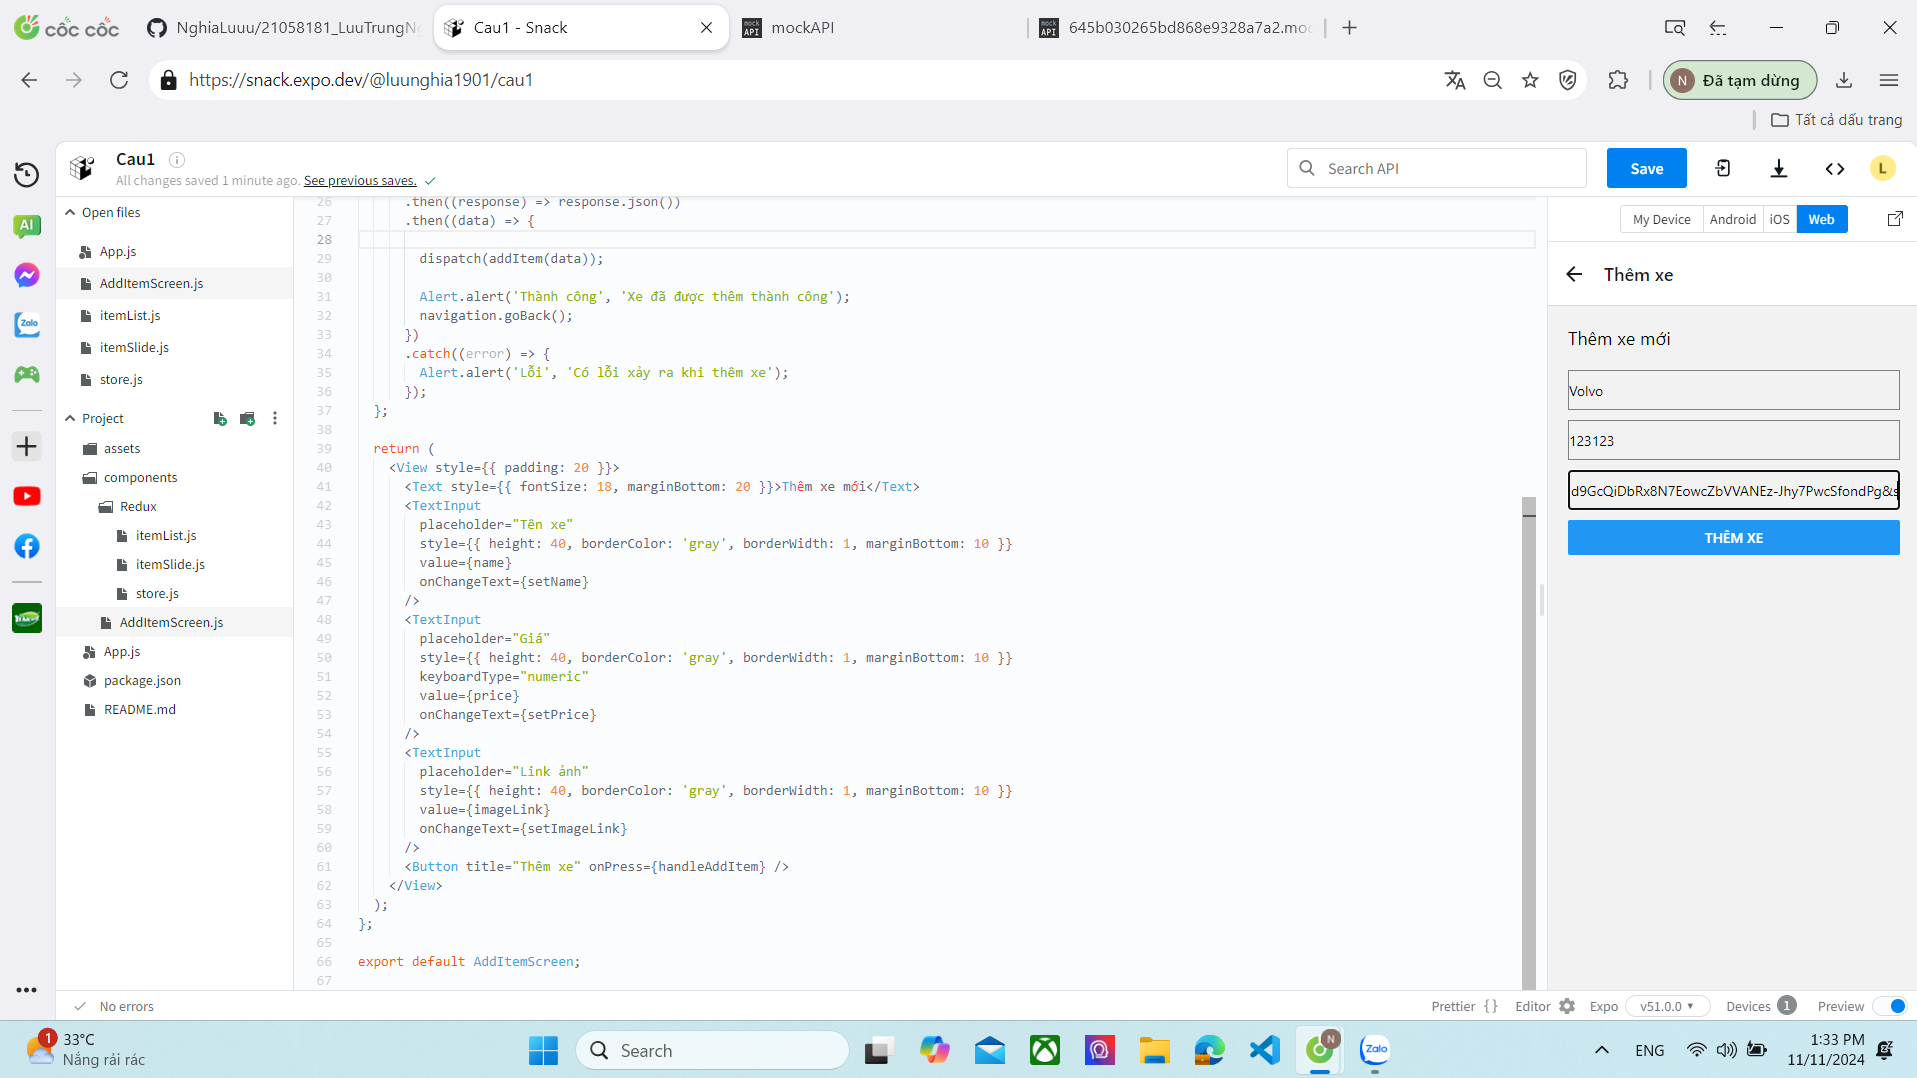
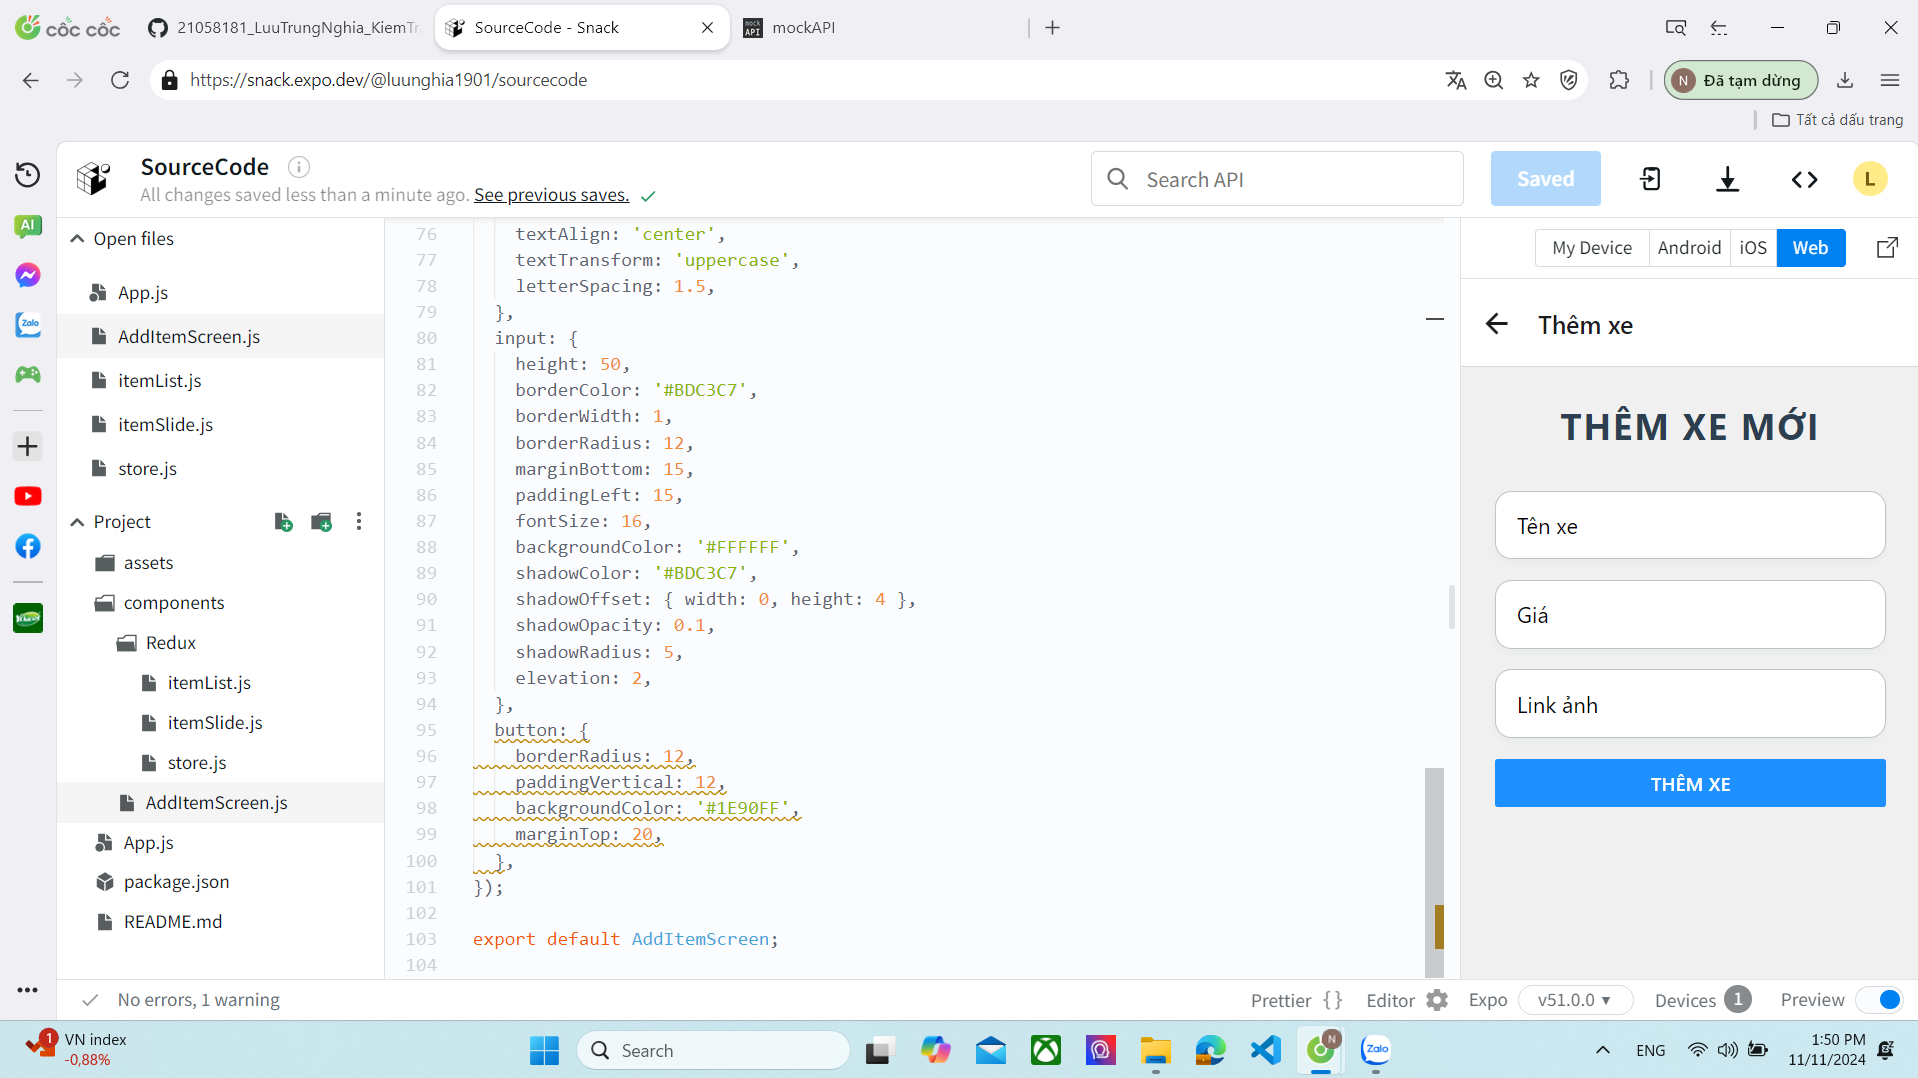
css lai AddItemScreen cau 2

diff --git a/SourceCode/components/AddItemScreen.js b/SourceCode/components/AddItemScreen.js
@@ -1,10 +1,10 @@
 import React, { useState } from 'react';
-import { View, TextInput, Button, Alert, Text } from 'react-native';
-import { useDispatch } from 'react-redux'; 
-import { fetchItems } from './Redux/itemSlide'; 
+import { View, TextInput, Button, Alert, Text, StyleSheet, ScrollView } from 'react-native';
+import { useDispatch } from 'react-redux';
 import { addItem } from './Redux/itemSlide'; 
+
 const AddItemScreen = ({ navigation }) => {
-  const dispatch = useDispatch(); 
+  const dispatch = useDispatch();
   const [name, setName] = useState('');
   const [price, setPrice] = useState('');
   const [imageLink, setImageLink] = useState('');
@@ -25,11 +25,10 @@ const AddItemScreen = ({ navigation }) => {
     })
       .then((response) => response.json())
       .then((data) => {
-        
-        dispatch(addItem(data)); 
+        dispatch(addItem(data));
 
         Alert.alert('Thành công', 'Xe đã được thêm thành công');
-        navigation.goBack(); 
+        navigation.goBack();
       })
       .catch((error) => {
         Alert.alert('Lỗi', 'Có lỗi xảy ra khi thêm xe');
@@ -37,30 +36,68 @@ const AddItemScreen = ({ navigation }) => {
   };
 
   return (
-    <View style={{ padding: 20 }}>
-      <Text style={{ fontSize: 18, marginBottom: 20 }}>Thêm xe mới</Text>
+    <ScrollView contentContainerStyle={styles.container}>
+      <Text style={styles.headerText}>Thêm xe mới</Text>
       <TextInput
         placeholder="Tên xe"
-        style={{ height: 40, borderColor: 'gray', borderWidth: 1, marginBottom: 10 }}
+        style={styles.input}
         value={name}
         onChangeText={setName}
       />
       <TextInput
         placeholder="Giá"
-        style={{ height: 40, borderColor: 'gray', borderWidth: 1, marginBottom: 10 }}
+        style={styles.input}
         keyboardType="numeric"
         value={price}
         onChangeText={setPrice}
       />
       <TextInput
         placeholder="Link ảnh"
-        style={{ height: 40, borderColor: 'gray', borderWidth: 1, marginBottom: 10 }}
+        style={styles.input}
         value={imageLink}
         onChangeText={setImageLink}
       />
-      <Button title="Thêm xe" onPress={handleAddItem} />
-    </View>
+      <Button title="Thêm xe" onPress={handleAddItem} color="#1E90FF" />
+    </ScrollView>
   );
 };
+
+const styles = StyleSheet.create({
+  container: {
+    flexGrow: 1,
+    padding: 25,
+    backgroundColor: '#F0F0F0',
+  },
+  headerText: {
+    fontSize: 26,
+    fontWeight: '700',
+    color: '#2C3E50',
+    marginBottom: 30,
+    textAlign: 'center',
+    textTransform: 'uppercase',
+    letterSpacing: 1.5,
+  },
+  input: {
+    height: 50,
+    borderColor: '#BDC3C7',
+    borderWidth: 1,
+    borderRadius: 12,
+    marginBottom: 15,
+    paddingLeft: 15,
+    fontSize: 16,
+    backgroundColor: '#FFFFFF',
+    shadowColor: '#BDC3C7',
+    shadowOffset: { width: 0, height: 4 },
+    shadowOpacity: 0.1,
+    shadowRadius: 5,
+    elevation: 2,
+  },
+  button: {
+    borderRadius: 12,
+    paddingVertical: 12,
+    backgroundColor: '#1E90FF',
+    marginTop: 20,
+  },
+});
 
 export default AddItemScreen;
